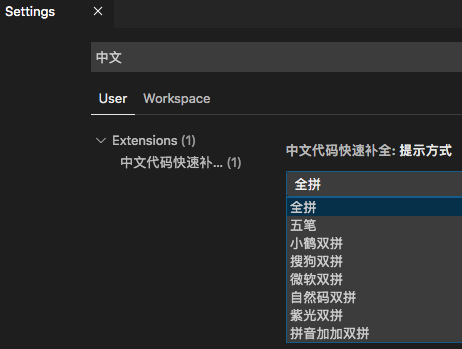
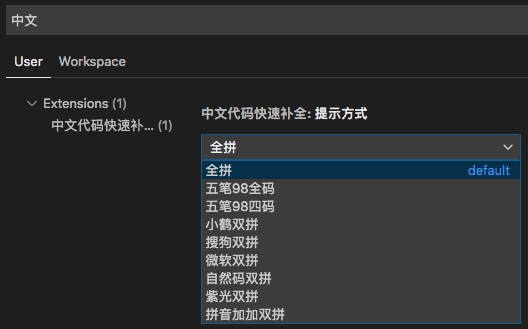
1.0.5 准备, 更新说明

diff --git a/README.md b/README.md
@@ -3,13 +3,15 @@
 
 # 中文代码快速补全
 
-英文输入下，匹配本行外任意位置的中文标识符。支持多种中文输入方式如下。***注：全拼之外，双拼和五笔为 beta***：
+英文输入下，匹配本行外任意位置的中文标识符。支持多种中文输入方式如下。
+
+***注：全拼之外，双拼和五笔为 beta。多谢 @YoungBoron 添加五笔四码功能！***
 
 ![演示](截图/输入法选项.png)
 
-五笔演示：
+五笔四码演示：
 
-![演示](截图/输入法_五笔.png)
+![演示](截图/输入法_五笔四码.png)
 
 支持各种编程语言，全拼下已实测过的：
 
@@ -52,6 +54,10 @@
 ![演示](截图/演示_TS.png)
 
 ## 版本说明
+
+### 1.0.5
+
+- 鸣谢： @YoungBoron 修正五笔错码，以及五笔输入法增加传统的四码上屏功能
 
 ### 1.0.4
 

diff --git a/CHANGELOG.md b/CHANGELOG.md
@@ -1,5 +1,9 @@
 ## 各版本更新说明
 
+### 1.0.5
+
+- 鸣谢： @YoungBoron 修正五笔错码，以及五笔输入法增加传统的四码上屏功能
+
 ### 1.0.4
 
 - 五笔和双拼输入法处于 beta 状态，欢迎反馈！
